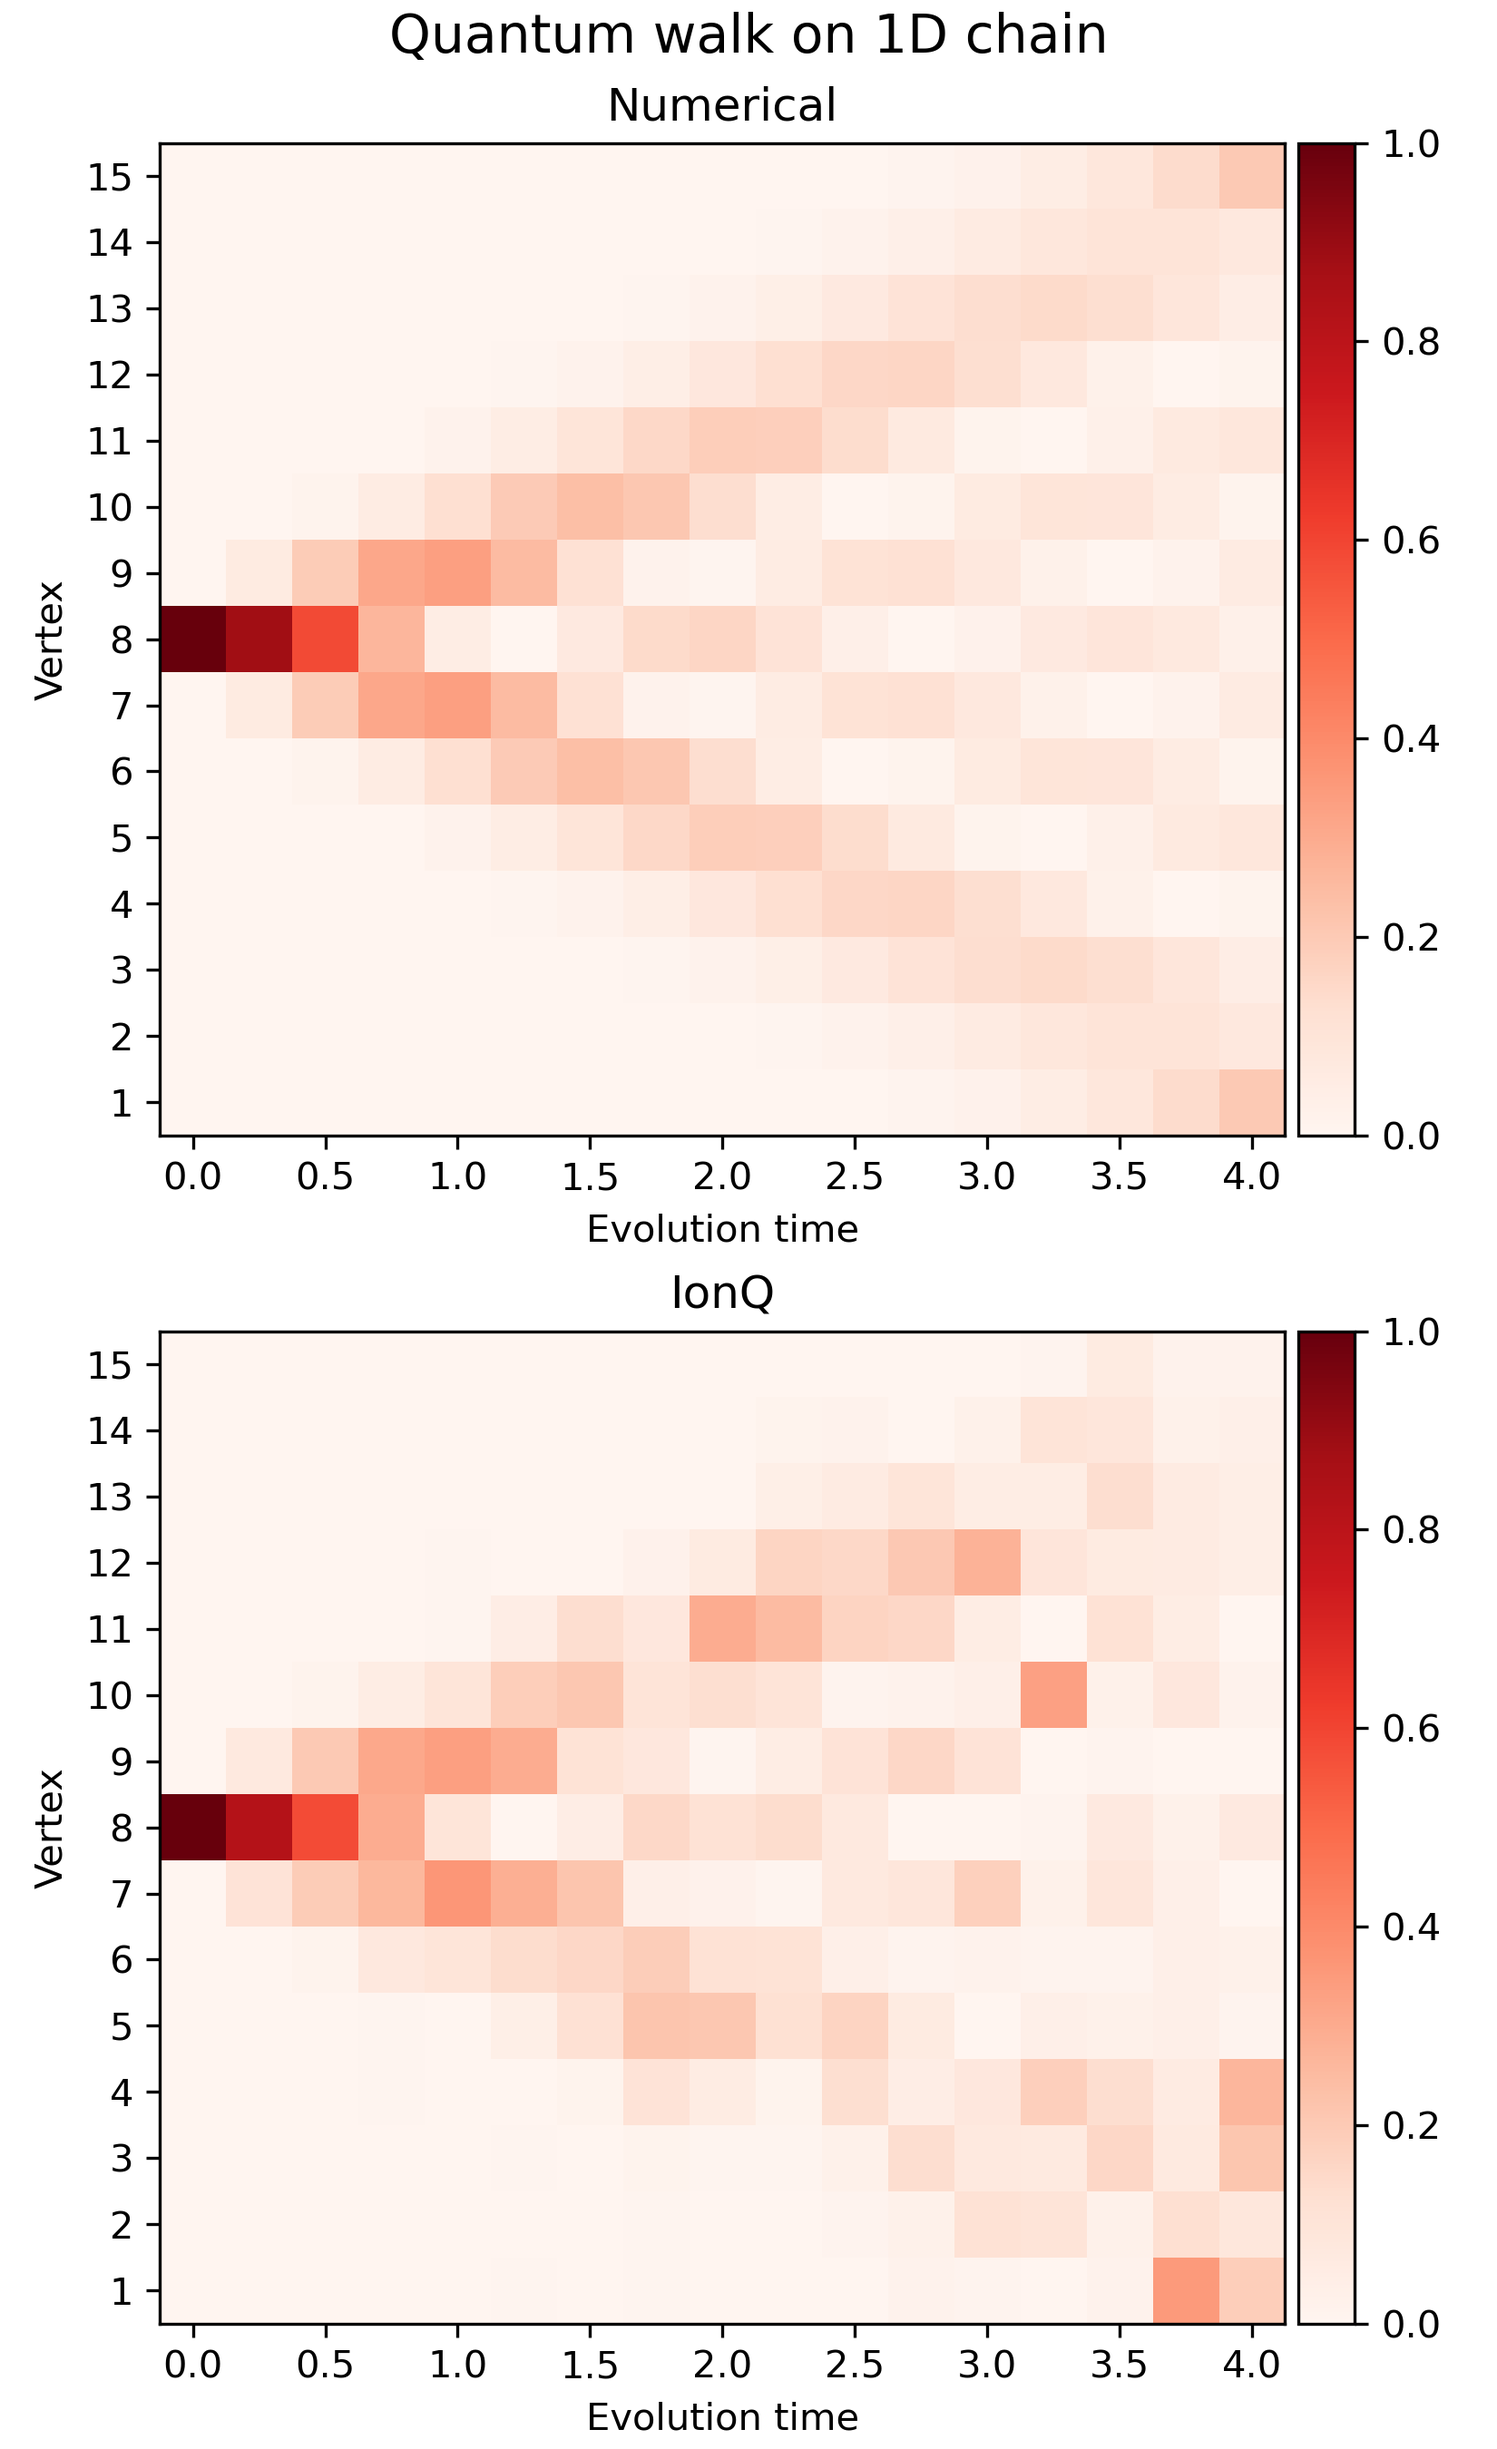
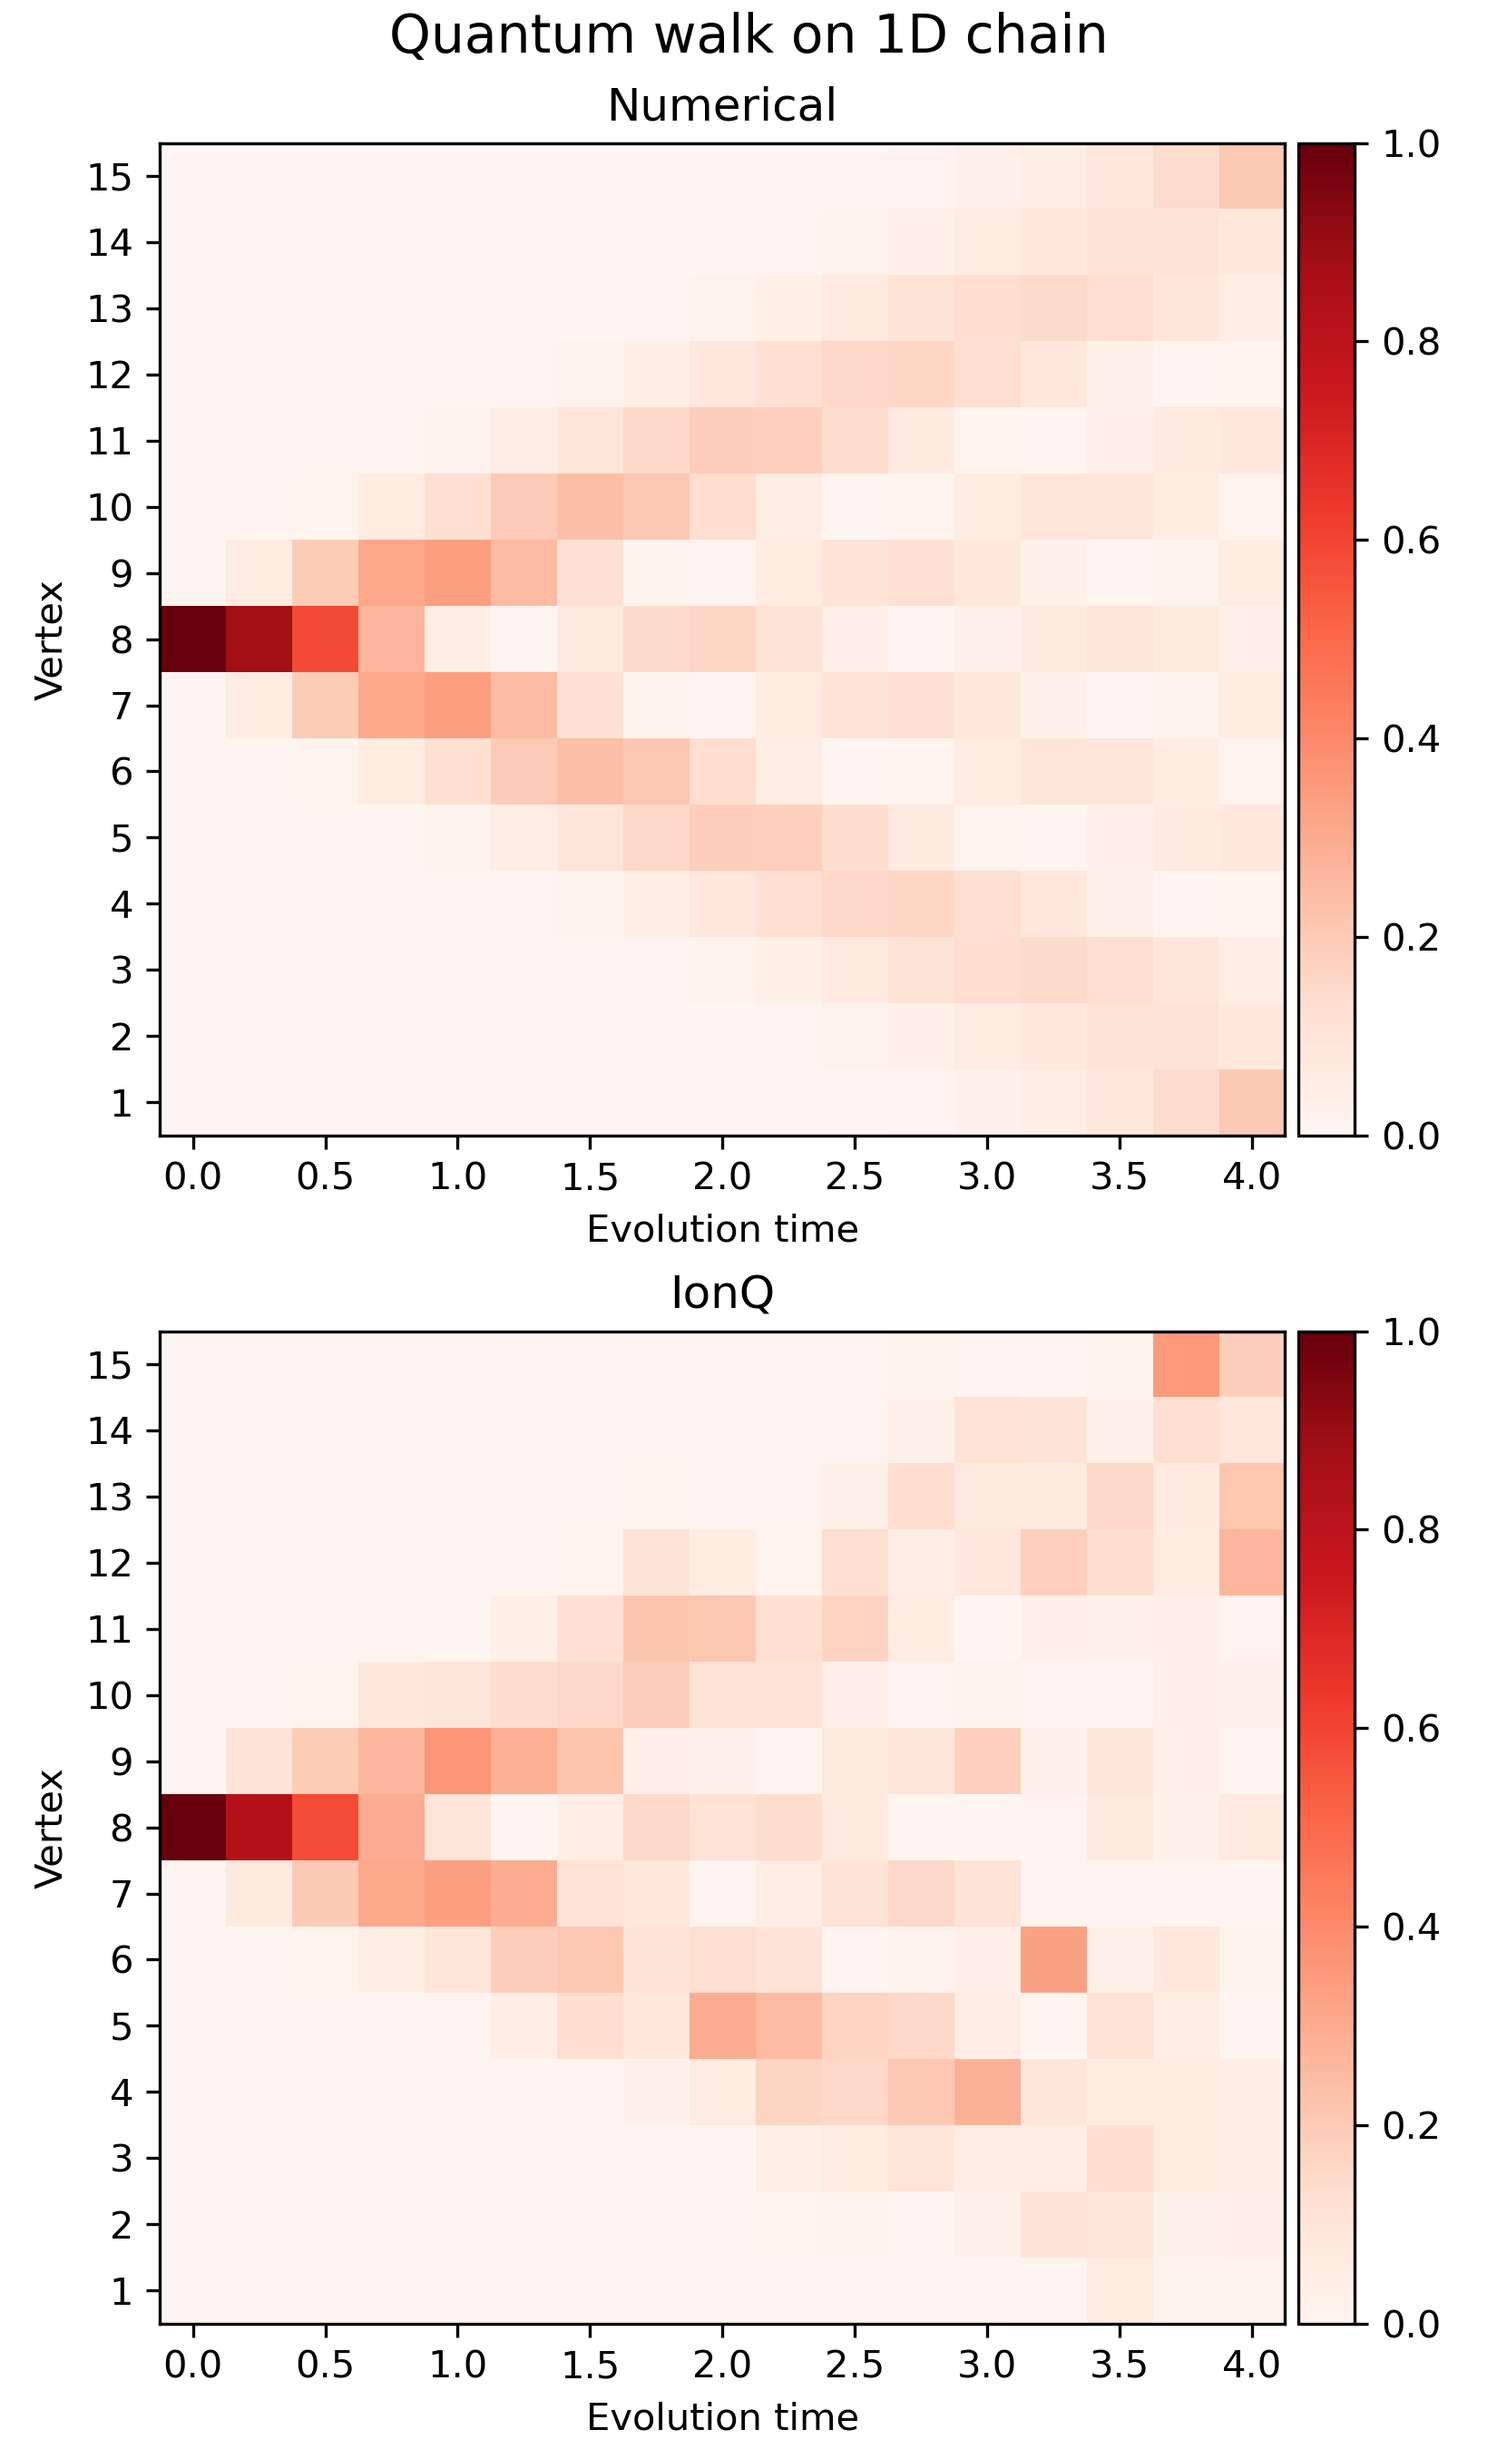
update plots

diff --git a/quantum_walk/binary_tree/plot.py b/quantum_walk/binary_tree/plot.py
@@ -17,10 +17,10 @@ vis_times = np.linspace(0, T, num_snapshots)
 #vis_index = [0, 3, 6, 9]
 width = 0.3
 
-TICK_FONT = 5
+TICK_FONT = 7
 LEGEND_FONT = 6
-LABEL_FONT = 6
-TITLE_FONT = 7
+LABEL_FONT = 8
+TITLE_FONT = 12
 
 ideal_prob_data = np.zeros((num_snapshots, N_levels))
 ionq_prob_data = np.zeros((num_snapshots, N_levels))
@@ -31,7 +31,6 @@ for i in range(N_levels):
         ideal_prob_data[:,i] += ideal_data[:,j]
         ionq_prob_data[:,i] += ionq_data[:,j]
         j += 1
-    
 
 x_tick_labels = []
 for i in range(num_snapshots):
@@ -42,38 +41,33 @@ for i in range(1, N_levels+1):
     y_tick_labels.append(f'{i}')
 
 
-# plt.rcParams['font.family'] = 'Helvetica'
+fig, axs = plt.subplots(2, 1, constrained_layout=True, facecolor="white", figsize=(7.5,4.5))
 
 # Ideal heatmap
-plt.figure()
-ax = plt.gca()
-im = ax.imshow(ideal_prob_data.T,
-           cmap='Purples',
+im = axs[0].imshow(ideal_prob_data.T,
+           cmap='Reds',
            origin='lower')
-divider = make_axes_locatable(ax)
+divider = make_axes_locatable(axs[0])
 cax = divider.append_axes("right", size="5%", pad=0.05)
 plt.colorbar(im, cax=cax)
-ax.set_xticks(ticks=np.arange(num_snapshots), labels=x_tick_labels)
-ax.set_yticks(ticks=np.arange(N_levels), labels=y_tick_labels)
-#ax.set_title('Numerical')
-ax.set_xlabel('Evolution time', fontsize=14)
-ax.set_ylabel('Layer', fontsize=14)
-#plt.show()
-plt.savefig('numerical_heatmap.png', dpi=300)
+axs[0].set_xticks(ticks=np.arange(num_snapshots), labels=x_tick_labels, fontsize=TICK_FONT)
+axs[0].set_yticks(ticks=np.arange(N_levels), labels=y_tick_labels, fontsize=TICK_FONT)
+axs[0].set_title('Numerical', fontsize=TITLE_FONT)
+axs[0].set_xlabel('Evolution time', fontsize=LABEL_FONT)
+axs[0].set_ylabel('Level', fontsize=LABEL_FONT)
 
 # IonQ heatmap
-plt.figure()
-ax = plt.gca()
-im = ax.imshow(ionq_prob_data.T,
-           cmap='Blues',
+im = axs[1].imshow(ionq_prob_data.T,
+           cmap='Reds',
            origin='lower')
-divider = make_axes_locatable(ax)
+divider = make_axes_locatable(axs[1])
 cax = divider.append_axes("right", size="5%", pad=0.05)
 plt.colorbar(im, cax=cax)
-ax.set_xticks(ticks=np.arange(num_snapshots), labels=x_tick_labels)
-ax.set_yticks(ticks=np.arange(N_levels), labels=y_tick_labels)
-#ax.set_title('IonQ', fontsize=14)
-ax.set_xlabel('Evolution time', fontsize=14)
-ax.set_ylabel('Layer', fontsize=14)
-#plt.show()
-plt.savefig('ionq_heatmap.png', dpi=300)
+axs[1].set_xticks(ticks=np.arange(num_snapshots), labels=x_tick_labels, fontsize=TICK_FONT)
+axs[1].set_yticks(ticks=np.arange(N_levels), labels=y_tick_labels, fontsize=TICK_FONT)
+axs[1].set_title('IonQ', fontsize=TITLE_FONT)
+axs[1].set_xlabel('Evolution time', fontsize=LABEL_FONT)
+axs[1].set_ylabel('Level', fontsize=LABEL_FONT)
+fig.suptitle("Quantum walk on binary tree", fontsize=14)
+# plt.show()
+plt.savefig('heatmap_binary_tree.png', dpi=300)

diff --git a/quantum_walk/1d_chain/plot.py b/quantum_walk/1d_chain/plot.py
@@ -34,7 +34,7 @@ for i in range(0, N_nodes):
 fig, axs = plt.subplots(2, 1, constrained_layout=True, facecolor="white", figsize=(5.5,9))
 
 # Ideal heatmap
-im = axs[0].imshow(np.flip(ideal_data.T, axis=0),
+im = axs[0].imshow(ideal_data.T,
            cmap='Reds',
            origin='lower')
 divider = make_axes_locatable(axs[0])
@@ -47,7 +47,7 @@ axs[0].set_xlabel('Evolution time', fontsize=LABEL_FONT)
 axs[0].set_ylabel('Vertex', fontsize=LABEL_FONT)
 
 # IonQ heatmap
-im = axs[1].imshow(np.flip(ionq_data.T, axis=0),
+im = axs[1].imshow(ionq_data.T,
            cmap='Reds',
            origin='lower')
 divider = make_axes_locatable(axs[1])

diff --git a/quantum_walk/1d_cycle/plot.py b/quantum_walk/1d_cycle/plot.py
@@ -34,7 +34,7 @@ for i in range(0, N_nodes):
 fig, axs = plt.subplots(2, 1, constrained_layout=True, facecolor="white", figsize=(5.5,9))
 
 # Ideal heatmap
-im = axs[0].imshow(np.flip(ideal_data.T, axis=0),
+im = axs[0].imshow(ideal_data.T,
            cmap='Reds',
            origin='lower')
 divider = make_axes_locatable(axs[0])
@@ -47,7 +47,7 @@ axs[0].set_xlabel('Evolution time', fontsize=LABEL_FONT)
 axs[0].set_ylabel('Vertex', fontsize=LABEL_FONT)
 
 # IonQ heatmap
-im = axs[1].imshow(np.flip(ionq_data.T, axis=0),
+im = axs[1].imshow(ionq_data.T,
            cmap='Reds',
            origin='lower')
 divider = make_axes_locatable(axs[1])
